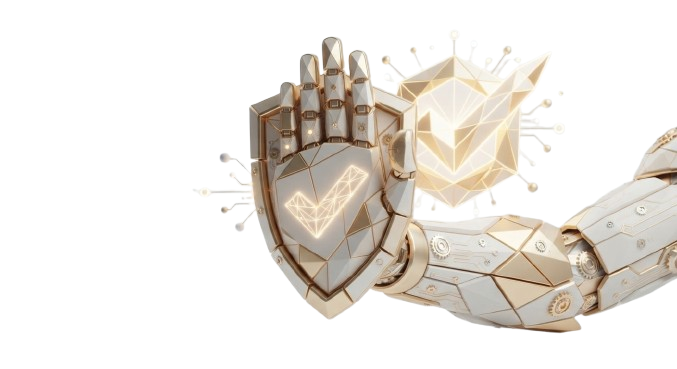
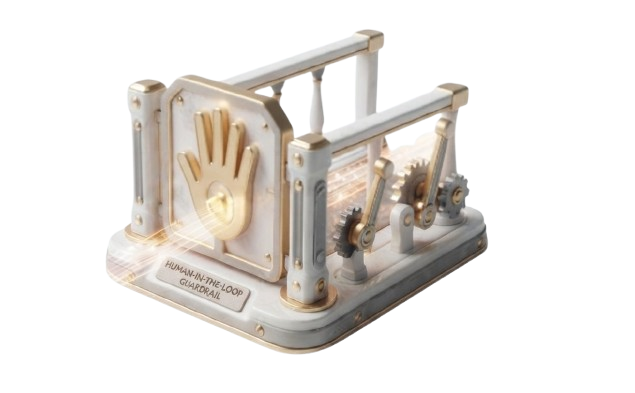
feat(홈): 히어로 이미지를 되살려 두 원의 왼쪽 교점에 맞춘다
이미지 중심이 배경 원 두 개가 겹치는 지점 중 왼쪽에 놓인다. 좌표를 손으로 박지
않고 원의 정의(CIRCLE_BACK·CIRCLE_FRONT)에서 계산한다 — 원을 옮기면 이미지가
따라온다. 예전에는 둘이 서로 다른 px 로 놓여 있어 원을 건드릴 때마다 이미지를
다시 맞춰야 했고, 실제로 그 조정을 열 번 넘게 반복했다.

지금 값으로 교점은 (315, 237) 이다.

3번 이미지를 HITL 가드레일로 바꿨다. 로봇 손이 방패와 체크를 들고 있어 'AI 가
승인한다' 로 읽힐 여지가 있었는데, 슬라이드 문구는 '실행은 사람 승인' 이다.
가드레일 쪽이 그 뜻에 가깝다. 셋 다 가장자리가 완전히 투명한 것을 확인했다.

diff --git a/web/components/home/HeroCarousel.tsx b/web/components/home/HeroCarousel.tsx
@@ -3,6 +3,7 @@ import { KB_MINT,KB_PRIMARY,KB_PRIMARY_BG } from '@/lib/theme'
 
 import { useEffect, useCallback } from 'react'
 import Link from 'next/link'
+import Image from 'next/image'
 
 
 /**
@@ -64,6 +65,39 @@ const HERO_HEIGHT = 400
 const CIRCLE_BACK = { x: 140, y: 140, r: 200, opacity: 0.2 }
 const CIRCLE_FRONT = { x: 220, y: 340, r: 140, opacity: 0.1 }
 
+type Circle = typeof CIRCLE_BACK
+
+/** 이미지 상자 너비. 실제 그림 크기는 여기에 맞춰 object-contain 으로 들어간다. */
+const IMAGE_BOX_WIDTH = 600
+
+/**
+ * 두 원이 만나는 두 점 중 <b>화면에서 더 왼쪽</b>에 있는 점.
+ *
+ * <p>x 는 오른쪽 끝에서 잰 거리라 큰 쪽이 왼쪽이다. 두 교점은 중심을 잇는 선을
+ * 기준으로 대칭이므로, 그 선에 수직인 두 방향 중 x 가 커지는 쪽을 고른다.
+ */
+function leftIntersection(a: Circle, b: Circle): { x: number; y: number } {
+  const dx = b.x - a.x
+  const dy = b.y - a.y
+  const d = Math.hypot(dx, dy)
+  // a 중심에서 두 교점을 잇는 선까지의 거리
+  const t = (d * d + a.r * a.r - b.r * b.r) / (2 * d)
+  // 그 선 위 지점에서 교점까지의 거리
+  const h = Math.sqrt(Math.max(0, a.r * a.r - t * t))
+  const mx = a.x + (t * dx) / d
+  const my = a.y + (t * dy) / d
+  return { x: mx + (h * dy) / d, y: my - (h * dx) / d }
+}
+
+/**
+ * 이미지 중심이 놓일 자리 — 두 원이 겹치는 왼쪽 교점.
+ *
+ * <p>좌표를 손으로 맞추지 않는다. 원(CIRCLE_BACK·CIRCLE_FRONT)을 옮기면 이미지가
+ * 따라온다. 예전에는 둘이 서로 다른 px 로 놓여 있어, 원을 건드릴 때마다 이미지를
+ * 다시 맞춰야 했다.
+ */
+const IMAGE_CENTER = leftIntersection(CIRCLE_BACK, CIRCLE_FRONT)
+
 interface HeroCarouselProps {
   current: number
   paused: boolean
@@ -99,6 +133,19 @@ export default function HeroCarousel({ current, paused, onChangeTo, onPausedChan
         ))}
       </div>
 
+
+      {/* 히어로 이미지 — 중심을 두 원의 왼쪽 교점에 맞춘다. */}
+      <div className="absolute -translate-y-1/2 pointer-events-none"
+        style={{ right: IMAGE_CENTER.x - IMAGE_BOX_WIDTH / 2, top: IMAGE_CENTER.y }}>
+        <Image
+          src={`/images/personal-hero${current + 1}.png`}
+          alt={slide.badge}
+          width={IMAGE_BOX_WIDTH}
+          height={380}
+          className="object-contain drop-shadow-lg"
+          priority
+        />
+      </div>
 
       <div className="max-w-kb-container mx-auto px-8 h-full flex items-center">
         <div className="flex flex-col gap-4 max-w-[560px]">
